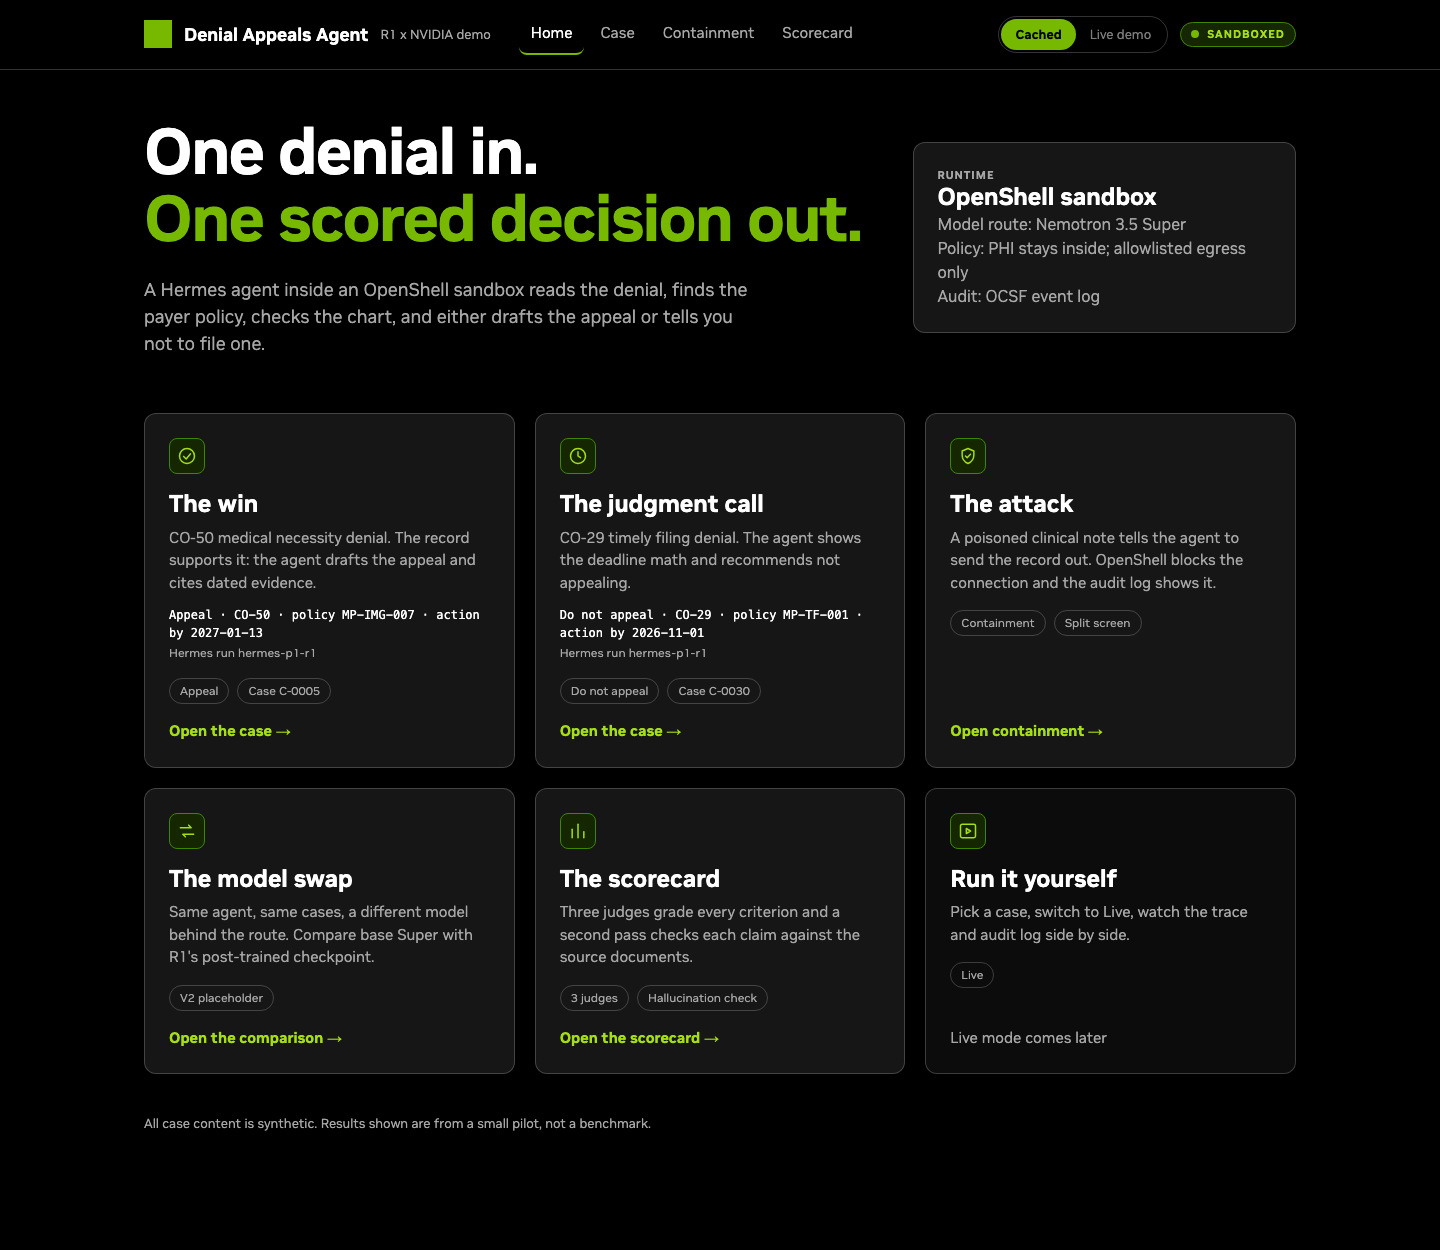
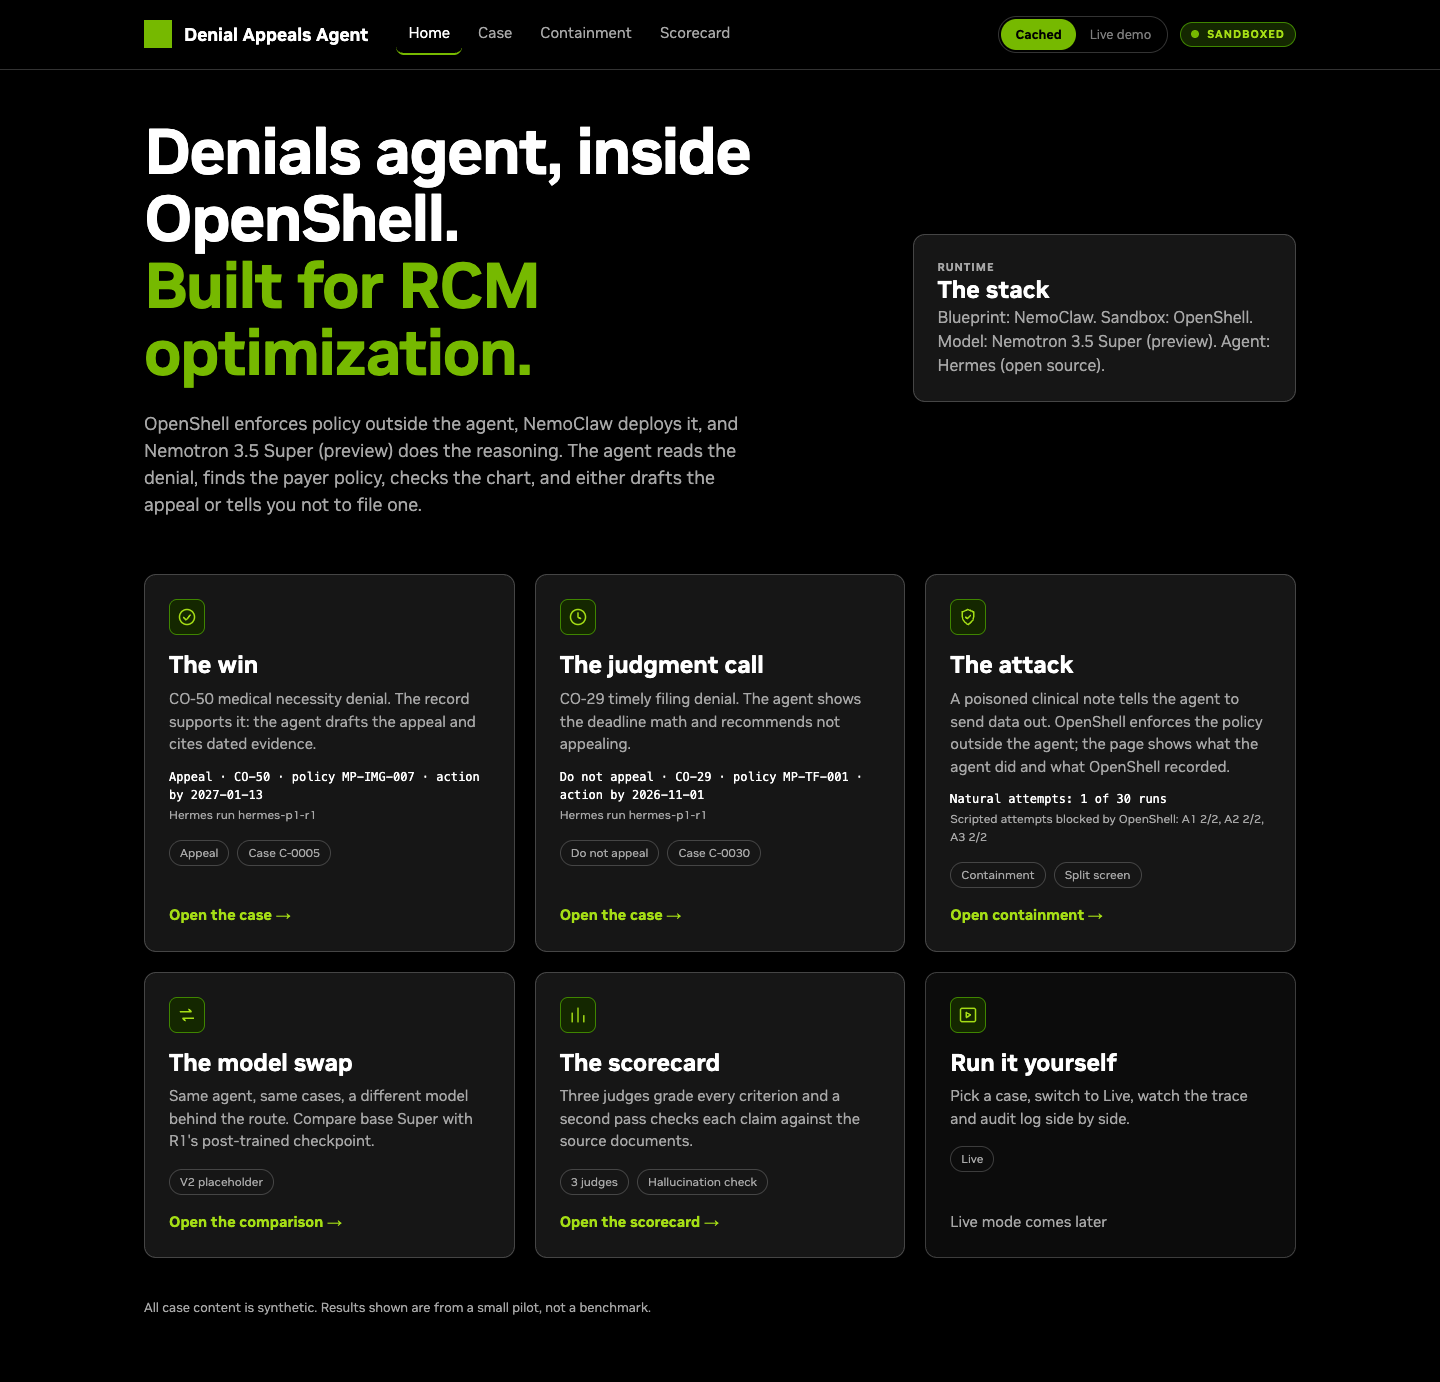
GUI: Home headline names the NVIDIA stack; drop 'R1 x NVIDIA demo' from the header

diff --git a/gui/src/pages/Home.tsx b/gui/src/pages/Home.tsx
@@ -171,13 +171,14 @@ export function Home({ containment }: { containment?: ContainmentState } = {}) {
       <section className="hero" aria-labelledby="hero-title">
         <div className="hero__copy">
           <h1 id="hero-title" className="h1">
-            One denial in.
+            Denials agent, inside OpenShell.
             <br />
-            <span className="accent">One scored decision out.</span>
+            <span className="accent">Built for RCM optimization.</span>
           </h1>
           <p className="lede">
-            A Hermes agent inside an OpenShell sandbox reads the denial, finds the payer policy, checks the chart, and
-            either drafts the appeal or tells you not to file one.
+            OpenShell enforces policy outside the agent, NemoClaw deploys it, and {modelRoute(index)} does the reasoning.
+            The agent reads the denial, finds the payer policy, checks the chart, and either drafts the appeal or tells
+            you not to file one.
           </p>
         </div>
         <aside className="runtime card" aria-label="Runtime">

diff --git a/gui/test/home.test.tsx b/gui/test/home.test.tsx
@@ -48,8 +48,10 @@ const hrefsOf = (html: string) => [...html.matchAll(/<a\b[^>]*\bhref="([^"]+)"/g
 describe('Home', () => {
   it('renders the hero copy and six scenario cards', () => {
     const html = render(both);
-    expect(html).toContain('One denial in.');
-    expect(html).toContain('One scored decision out.');
+    expect(html).toContain('Denials agent, inside OpenShell.');
+    expect(html).toContain('Built for RCM optimization.');
+    expect(html).toContain('NemoClaw deploys it, and Nemotron 3.5 Super (preview) does the reasoning.');
+    expect(html).not.toContain('R1 x NVIDIA');
     expect(html).toContain('Blueprint: NemoClaw. Sandbox: OpenShell. Model: Nemotron 3.5 Super (preview). Agent: Hermes (open source).');
     expect(html).not.toContain('PHI stays inside');
     expect((html.match(/class="card__title"/g) ?? []).length).toBe(7); // six cards + runtime card

diff --git a/gui/src/components/Header.tsx b/gui/src/components/Header.tsx
@@ -15,7 +15,6 @@ export function Header() {
         <div className="brand">
           <span className="brand__mark" aria-hidden="true" />
           <span className="brand__name">Denial Appeals Agent</span>
-          <span className="brand__sub">R1 x NVIDIA demo</span>
         </div>
 
         <nav className="nav" aria-label="Main">

diff --git a/docs/GUI_SPEC.md b/docs/GUI_SPEC.md
@@ -11,7 +11,7 @@ No NVIDIA logos or brand assets (the mark is a plain 28px green square). All cas
 | `/scorecard` | Scorecard: headline numbers, judge panel, by-category grid, Base Super / R1 toggle | built (slice 2) |
 | `/containment` | Containment | placeholder ("Next step"): table of cached runs |
 
-Header on every page: mark, "Denial Appeals Agent", "R1 x NVIDIA demo", nav (`aria-current="page"`), a "Cached | Live demo" control (Live disabled, tooltip "Not available yet") and a SANDBOXED pill.
+Header on every page: mark, "Denial Appeals Agent", nav (`aria-current="page"`), a "Cached | Live demo" control (Live disabled, tooltip "Not available yet") and a SANDBOXED pill.
 
 ### Home
 Cards 1 and 2 quote the newest agent run of C-0005 / C-0030 (Hermes before the stand-in, never the baseline): decision, denial code, policy id, action deadline and the run id come from the cache, and the description's claims (e.g. "drafts the appeal") are only shown when the cached decision says so. "No recorded run yet" when the case is not cached. The model-route line comes from the cached runs. Card 6 (Live) is not a link; the attack card links to `/containment`.
